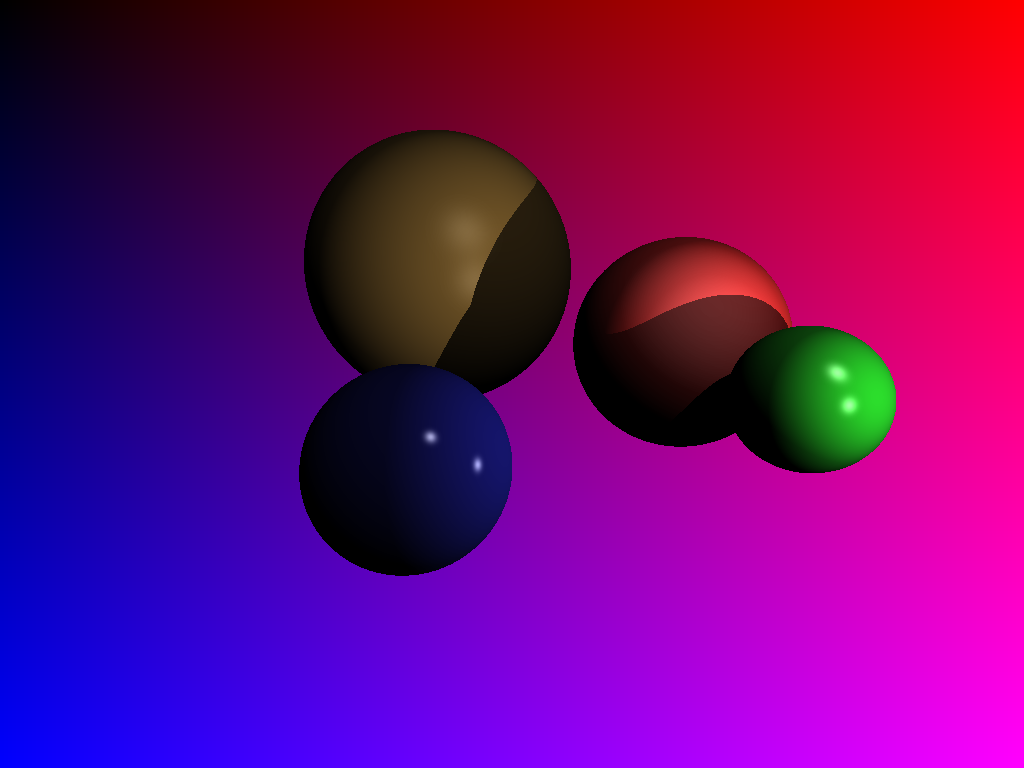
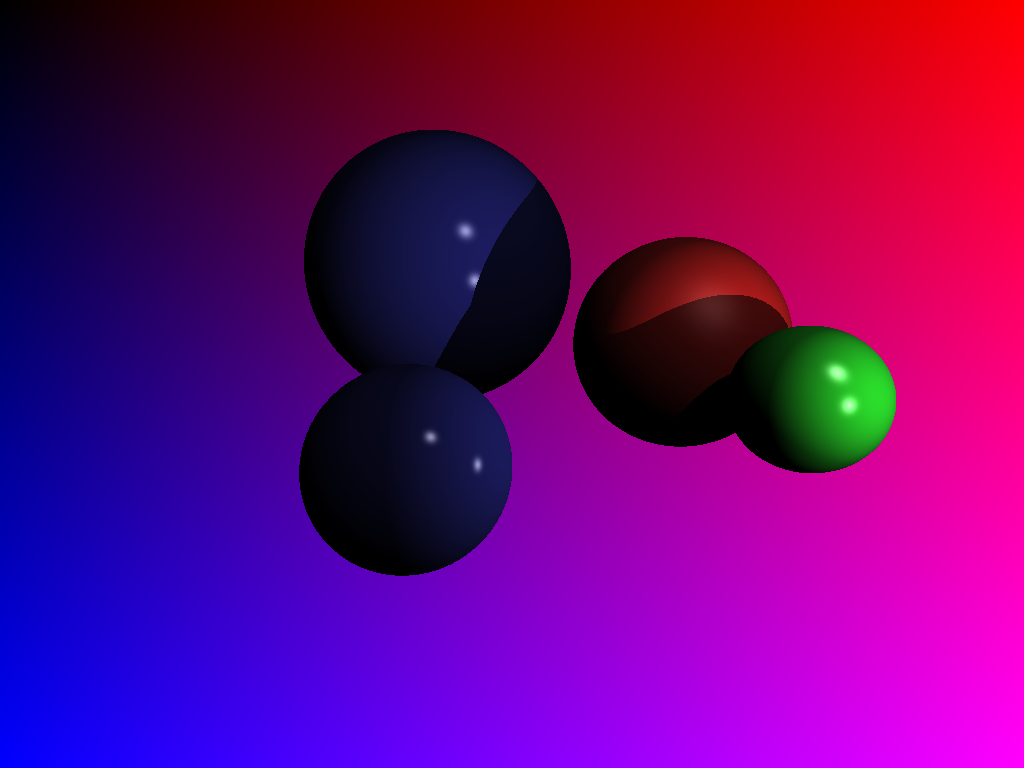
Make spheres store references to materials

Changed region(s): [[0.3125, 0.1562, 0.5625, 0.5], [0.5938, 0.3125, 0.7812, 0.5]]

diff --git a/src/ray_tracing.rs b/src/ray_tracing.rs
@@ -5,7 +5,7 @@ pub fn scene_intersect<'a>(
     ray_origin: &Vec3,
     ray_direction: &Vec3,
     spheres: &'a Vec<Sphere>,
-) -> Option<(&'a Sphere, f32)> {
+) -> Option<(&'a Sphere<'a>, f32)> {
     let mut closest = f32::MAX;
     let mut closest_sphere: Option<(&Sphere, f32)> = None;
     for sphere in spheres {
@@ -57,29 +57,17 @@ mod tests {
             Sphere {
                 origin: Vec3::new(3.0, 0.0, 0.0),
                 radius: 1.0,
-                material: Material {
-                    diffuse_color: Rgb(255, 0, 0),
-                    shininess: 0.0,
-                    albedo: (0.5, 0.5),
-                },
+                material: &RED,
             },
             Sphere {
                 origin: Vec3::new(4.0, 0.0, 0.0),
                 radius: 1.5,
-                material: Material {
-                    diffuse_color: Rgb(0, 0, 0),
-                    shininess: 0.0,
-                    albedo: (0.5, 0.5),
-                },
+                material: &BLACK,
             },
             Sphere {
                 origin: Vec3::new(-10.0, 0.0, 0.0),
                 radius: 1.5,
-                material: Material {
-                    diffuse_color: Rgb(0, 0, 255),
-                    shininess: 0.0,
-                    albedo: (0.5, 0.5),
-                },
+                material: &BLACK,
             },
         ];
 
@@ -91,7 +79,7 @@ mod tests {
 
         assert_eq!(
             intersection.unwrap().0.material.diffuse_color,
-            Rgb(255, 0, 0)
+            Rgb::new(255, 0, 0)
         );
     }
 
@@ -100,11 +88,7 @@ mod tests {
         let sphere = Sphere {
             origin: Vec3::new(3.0, 0.0, 0.0),
             radius: 2.0,
-            material: Material {
-                diffuse_color: Rgb(255, 0, 0),
-                shininess: 0.0,
-                albedo: (0.5, 0.5),
-            },
+            material: &RED,
         };
 
         let distance = ray_intersects(
@@ -121,11 +105,7 @@ mod tests {
         let sphere = Sphere {
             origin: Vec3::new(-3.0, 0.0, 0.0),
             radius: 2.0,
-            material: Material {
-                diffuse_color: Rgb(255, 0, 0),
-                shininess: 0.0,
-                albedo: (0.5, 0.5),
-            },
+            material: &RED,
         };
 
         let distance = ray_intersects(
@@ -142,11 +122,7 @@ mod tests {
         let sphere = Sphere {
             origin: Vec3::new(1.0, 1.0, 0.0),
             radius: 2.0,
-            material: Material {
-                diffuse_color: Rgb(255, 0, 0),
-                shininess: 0.0,
-                albedo: (0.5, 0.5),
-            },
+            material: &RED,
         };
 
         let distance = ray_intersects(
@@ -157,4 +133,16 @@ mod tests {
 
         assert_eq!(distance, None);
     }
+
+    const RED: Material = Material {
+        diffuse_color: Rgb::new(255, 0, 0),
+        shininess: 0.0,
+        albedo: (0.5, 0.5),
+    };
+
+    const BLACK: Material = Material {
+        diffuse_color: Rgb::new(0, 0, 0),
+        shininess: 0.0,
+        albedo: (0.5, 0.5),
+    };
 }

diff --git a/src/main.rs b/src/main.rs
@@ -35,7 +35,7 @@ fn background(buffer: &mut Buffer) {
         for y in 0..HEIGHT {
             buffer.set(
                 &Point(x, y),
-                &Rgb((x * 256 / WIDTH) as u8, 0, (y * 256 / HEIGHT) as u8),
+                &Rgb::new((x * 256 / WIDTH) as u8, 0, (y * 256 / HEIGHT) as u8),
             );
         }
     }
@@ -51,38 +51,22 @@ fn draw(buffer: &mut Buffer) {
         Sphere {
             origin: Vec3::new(3.2, 1.8, -10.0),
             radius: 2.0,
-            material: Material {
-                diffuse_color: Rgb(250, 50, 50),
-                shininess: 1.0,
-                albedo: (0.9, 0.1),
-            },
+            material: &RUBBERY_RED,
         },
         Sphere {
             origin: Vec3::new(4.0, 0.8, -7.0),
             radius: 1.0,
-            material: Material {
-                diffuse_color: Rgb(50, 250, 50),
-                shininess: 50.0,
-                albedo: (0.8, 0.5),
-            },
+            material: &GLOSSY_GREEN,
         },
         Sphere {
             origin: Vec3::new(-1.0, 0.2, -5.0),
             radius: 1.0,
-            material: Material {
-                diffuse_color: Rgb(50, 50, 250),
-                shininess: 200.0,
-                albedo: (0.4, 0.6),
-            },
+            material: &GLOSSY_BLUE,
         },
         Sphere {
             origin: Vec3::new(-2.2, 4.5, -16.0),
             radius: 4.0,
-            material: Material {
-                diffuse_color: Rgb(200, 150, 70),
-                shininess: 20.0,
-                albedo: (0.5, 0.1),
-            },
+            material: &GLOSSY_BLUE,
         },
     ];
 
@@ -97,7 +81,7 @@ fn draw(buffer: &mut Buffer) {
         },
     ];
 
-    let spec_base_color = Rgb(255, 255, 255);
+    let spec_base_color = Rgb::new(255, 255, 255);
 
     for x in 0..WIDTH {
         for y in 0..HEIGHT {
@@ -152,18 +136,36 @@ fn draw(buffer: &mut Buffer) {
 }
 
 #[derive(Debug, PartialEq)]
-struct Sphere {
+struct Sphere<'a> {
     origin: Vec3,
     radius: f32,
-    material: Material,
+    material: &'a Material,
 }
 
-#[derive(Debug, PartialEq)]
+#[derive(Debug, PartialEq, Clone)]
 struct Material {
     diffuse_color: Rgb,
     shininess: f32,
     albedo: (f32, f32), // what portion of light reflects diffusely and what reflects specularely
 }
+
+static GLOSSY_BLUE: Material = Material {
+    diffuse_color: Rgb::new(50, 50, 170),
+    shininess: 200.0,
+    albedo: (0.5, 0.5),
+};
+
+static RUBBERY_RED: Material = Material {
+    diffuse_color: Rgb::new(190, 30, 30),
+    shininess: 10.0,
+    albedo: (0.9, 0.1),
+};
+
+static GLOSSY_GREEN: Material = Material {
+    diffuse_color: Rgb::new(50, 250, 50),
+    shininess: 50.0,
+    albedo: (0.8, 0.6),
+};
 
 struct Light {
     origin: Vec3,

diff --git a/src/buffer.rs b/src/buffer.rs
@@ -13,10 +13,10 @@ pub struct Rgb {
     values: [u8; 3],
 }
 
-#[allow(non_snake_case)]
-//todo maybe generalize Vec3 and make this its alias
-pub fn Rgb(r: u8, g: u8, b: u8) -> Rgb {
-    Rgb { values: [r, g, b] }
+impl Rgb {
+    pub const fn new(r: u8, g: u8, b: u8) -> Rgb {
+        Rgb { values: [r, g, b] }
+    }
 }
 
 impl Mul<f32> for Rgb {
@@ -47,17 +47,17 @@ mod rgb_test {
 
     #[test]
     fn rgb_multiplication() {
-        assert_eq!(Rgb(100, 10, 200) * 0.8, Rgb(80, 8, 160));
+        assert_eq!(Rgb::new(100, 10, 200) * 0.8, Rgb::new(80, 8, 160));
     }
 
     #[test]
     fn rgb_multiplication_out_of_bound() {
-        assert_eq!(Rgb(100, 10, 200) * 2.0, Rgb(200, 20, 255));
+        assert_eq!(Rgb::new(100, 10, 200) * 2.0, Rgb::new(200, 20, 255));
     }
 
     #[test]
     fn rgb_addition() {
-        assert_eq!(Rgb(100, 10, 200) + Rgb(100, 10, 200), Rgb(200, 20, 255));
+        assert_eq!(Rgb::new(100, 10, 200) + Rgb::new(100, 10, 200), Rgb::new(200, 20, 255));
     }
 }
 
